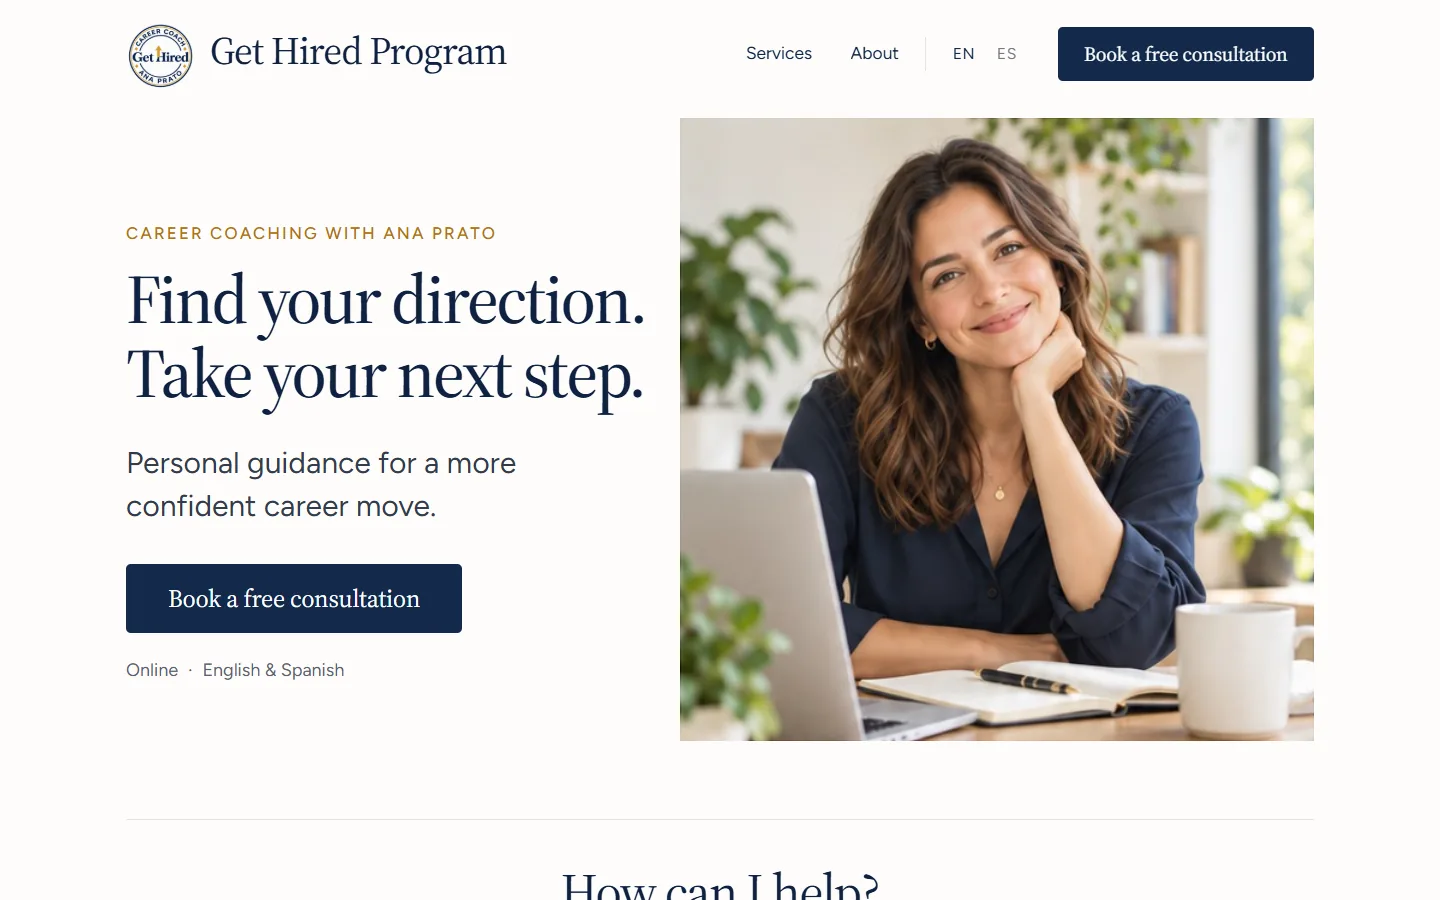
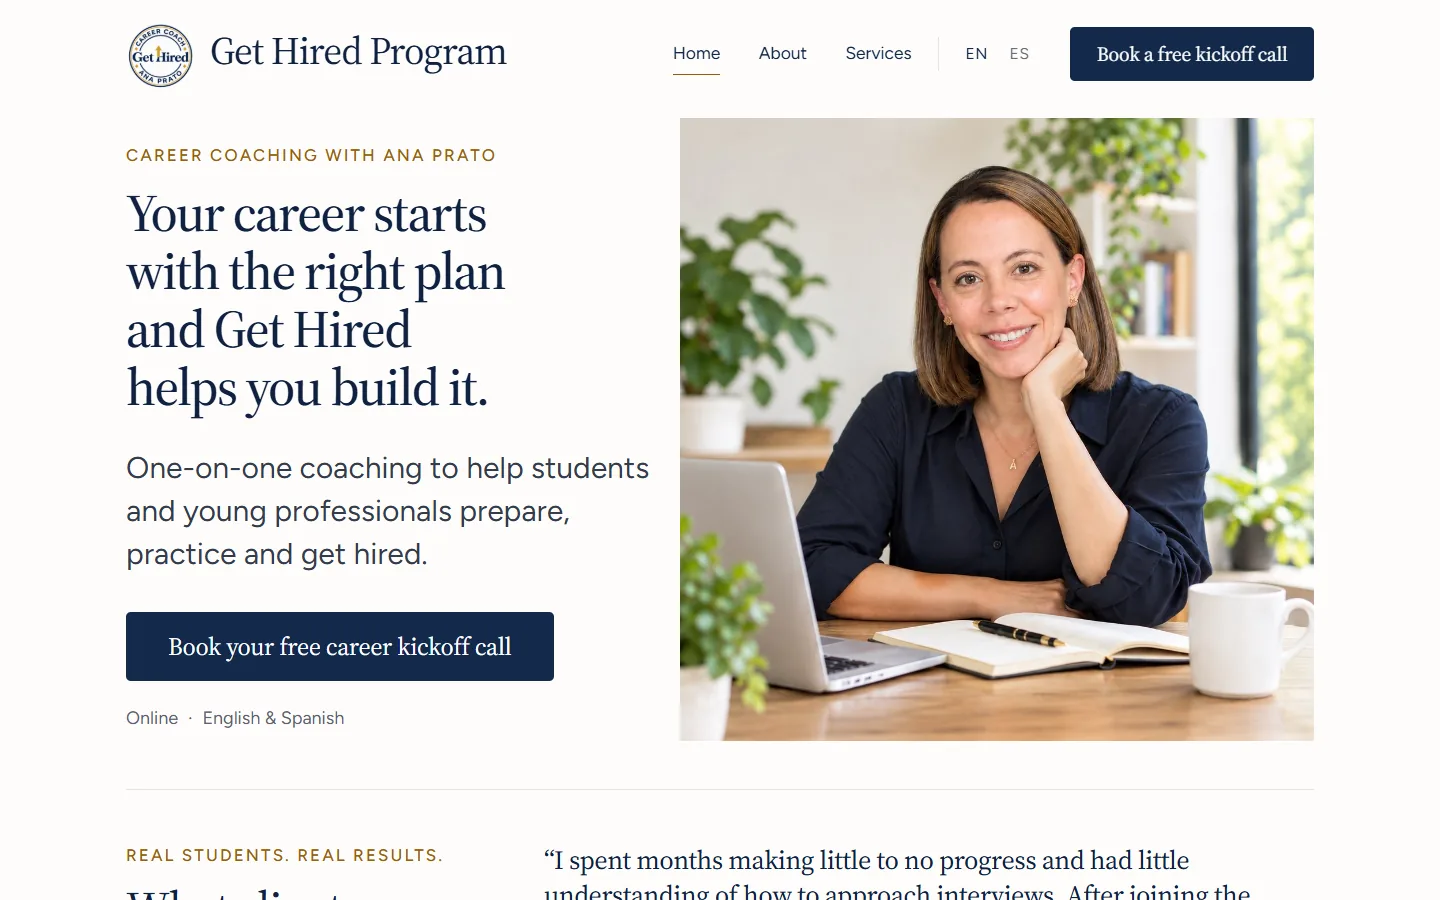
Refresh Get Hired and Right Chews in the portfolio
New screenshots of both live sites, Build section matches Get Hired's
current hero, Right Chews links point to rightchewsfoods.com, case copy
covers checkout and booking.

Claude-Session: https://claude.ai/code/session_019TNtPcbM6dzfqmW4JZ8SM1

diff --git a/index.html b/index.html
@@ -341,15 +341,15 @@
             <div class="mock" aria-hidden="true">
               <div class="m-nav">
                 <div class="b m-logo"><div class="w"><em>LOGO</em></div><div class="r"><span class="seal"></span><span class="ty">Get Hired Program</span><span class="st">Get Hired Program</span></div></div>
-                <div class="b m-links"><div class="w"><em>NAV</em></div><div class="r"><span class="ty">Services &nbsp;About</span><span class="st">Services &nbsp;&nbsp;About</span></div></div>
-                <div class="b m-cta"><div class="w"><em>BTN</em></div><div class="r"><span class="ty">Book a call</span><span class="st">Book a free consultation</span></div></div>
+                <div class="b m-links"><div class="w"><em>NAV</em></div><div class="r"><span class="ty">About &nbsp;Services</span><span class="st">About &nbsp;&nbsp;Services</span></div></div>
+                <div class="b m-cta"><div class="w"><em>BTN</em></div><div class="r"><span class="ty">Book a call</span><span class="st">Book a free kickoff call</span></div></div>
               </div>
               <div class="m-body">
                 <div class="m-copy">
                   <div class="b m-eyebrow"><div class="w"><em>EYEBROW</em></div><div class="r"><span class="ty">Career coaching with Ana Prato</span><span class="st">CAREER COACHING WITH ANA PRATO</span></div></div>
-                  <div class="b m-h1"><div class="w"><em>H1</em></div><div class="r"><span class="ty">Find your direction. Take your next step.</span><span class="st">Find your direction. Take your next step.</span></div></div>
-                  <div class="b m-sub"><div class="w"><em>SUBHEAD</em></div><div class="r"><span class="ty">Personal guidance for a more confident career move.</span><span class="st">Personal guidance for a more confident career move.</span></div></div>
-                  <div class="b m-btn"><div class="w"><em>PRIMARY BUTTON</em></div><div class="r"><span class="ty">Book a free consultation</span><span class="st">Book a free consultation</span></div></div>
+                  <div class="b m-h1"><div class="w"><em>H1</em></div><div class="r"><span class="ty">Your career starts with the right plan.</span><span class="st">Your career starts with the right plan and Get Hired helps you build it.</span></div></div>
+                  <div class="b m-sub"><div class="w"><em>SUBHEAD</em></div><div class="r"><span class="ty">One-on-one coaching to prepare, practice and get hired.</span><span class="st">One-on-one coaching to help students and young professionals prepare, practice and get hired.</span></div></div>
+                  <div class="b m-btn"><div class="w"><em>PRIMARY BUTTON</em></div><div class="r"><span class="ty">Book a free kickoff call</span><span class="st">Book your free career kickoff call</span></div></div>
                   <div class="b m-meta"><div class="w"><em>META</em></div><div class="r"><span class="ty">Online · English &amp; Spanish</span><span class="st">Online · English &amp; Spanish</span></div></div>
                 </div>
                 <div class="b m-photo">
@@ -382,16 +382,16 @@
           <div class="case-copy">
             <h3 class="case-name">Right Chews Foods</h3>
             <p class="case-what">Protein brownies, baked in small batches by a family in Coral Springs, Florida.</p>
-            <p class="case-body">They needed a site that looked as good as the brownies taste. I built the shop, a banner for each flavor, nutrition facts, and contact and wholesale forms that land in their business inbox.</p>
-            <ul class="case-tags"><li>Product shop</li><li>Wholesale form</li><li>Business email</li></ul>
-            <a class="btn btn-ghost" href="https://samirawad24.github.io/rightchewsfoods/" target="_blank" rel="noopener"><span>Visit the site</span><span class="btn-ic"><svg><use href="#i-arrow-up-right"/></svg></span></a>
+            <p class="case-body">They needed a site that looked as good as the brownies taste. I built the shop with real online checkout and Shop Pay, a rotating banner for each flavor, and a wholesale form that lands in their business inbox.</p>
+            <ul class="case-tags"><li>Online checkout</li><li>Product shop</li><li>Wholesale form</li></ul>
+            <a class="btn btn-ghost" href="https://rightchewsfoods.com/" target="_blank" rel="noopener"><span>Visit the site</span><span class="btn-ic"><svg><use href="#i-arrow-up-right"/></svg></span></a>
           </div>
           <div class="case-devices" aria-hidden="true">
             <div class="dev-browser">
-              <div class="dev-chrome"><span class="dots"><i></i><i></i><i></i></span><span class="dev-url">rightchewsfoods</span></div>
-              <div class="dev-screen"><img class="scroller" src="img/work/rightchews-desktop.webp" alt="Right Chews Foods website on desktop: protein brownie shop with a banner for each flavor" width="1100" height="2328" loading="lazy" decoding="async"></div>
+              <div class="dev-chrome"><span class="dots"><i></i><i></i><i></i></span><span class="dev-url">rightchewsfoods.com</span></div>
+              <div class="dev-screen"><img class="scroller" src="img/work/rightchews-desktop.webp" alt="Right Chews Foods website on desktop: protein brownie shop with a banner for each flavor" width="1100" height="1839" loading="lazy" decoding="async"></div>
             </div>
-            <div class="dev-phone"><div class="dev-screen"><img class="scroller" src="img/work/rightchews-mobile.webp" alt="Right Chews Foods website on a phone" width="480" height="5285" loading="lazy" decoding="async"></div></div>
+            <div class="dev-phone"><div class="dev-screen"><img class="scroller" src="img/work/rightchews-mobile.webp" alt="Right Chews Foods website on a phone" width="480" height="4101" loading="lazy" decoding="async"></div></div>
           </div>
         </div></div>
       </article>
@@ -422,16 +422,16 @@
           <div class="case-copy">
             <h3 class="case-name">Get Hired Program</h3>
             <p class="case-what">Career coaching with Ana Prato, in English and Spanish.</p>
-            <p class="case-body">Ana coaches job seekers in two languages, so the site speaks both. Each page has an English and a Spanish version, and gethiredprogram.com is verified with Google Search Console. You watched its homepage get built at the top of this page.</p>
-            <ul class="case-tags"><li>Bilingual site</li><li>Custom domain</li><li>Search Console</li></ul>
+            <p class="case-body">Ana coaches students and young professionals in two languages, so the site speaks both. Each page has an English and a Spanish version, visitors book a free kickoff call without leaving the site, and real client reviews rotate on the homepage. You watched its homepage get built at the top of this page.</p>
+            <ul class="case-tags"><li>Bilingual site</li><li>Online booking</li><li>Client reviews</li></ul>
             <a class="btn btn-ghost" href="https://gethiredprogram.com" target="_blank" rel="noopener"><span>Visit the site</span><span class="btn-ic"><svg><use href="#i-arrow-up-right"/></svg></span></a>
           </div>
           <div class="case-devices" aria-hidden="true">
             <div class="dev-browser">
               <div class="dev-chrome"><span class="dots"><i></i><i></i><i></i></span><span class="dev-url">gethiredprogram.com</span></div>
-              <div class="dev-screen"><img class="scroller" src="img/work/gethired-desktop.webp" alt="Get Hired Program bilingual career coaching website on desktop" width="1100" height="2052" loading="lazy" decoding="async"></div>
+              <div class="dev-screen"><img class="scroller" src="img/work/gethired-desktop.webp" alt="Get Hired Program bilingual career coaching website on desktop" width="1100" height="2325" loading="lazy" decoding="async"></div>
             </div>
-            <div class="dev-phone"><div class="dev-screen"><img class="scroller" src="img/work/gethired-mobile.webp" alt="Get Hired Program website on a phone" width="480" height="4390" loading="lazy" decoding="async"></div></div>
+            <div class="dev-phone"><div class="dev-screen"><img class="scroller" src="img/work/gethired-mobile.webp" alt="Get Hired Program website on a phone" width="480" height="5308" loading="lazy" decoding="async"></div></div>
           </div>
         </div></div>
       </article>

diff --git a/orlando-web-design/index.html b/orlando-web-design/index.html
@@ -189,7 +189,7 @@
       <h2 class="h2 reveal" id="shots-title">Three I built, live now.</h2>
       <div class="svc-shots">
         <a class="shot reveal" href="https://gethiredprogram.com" target="_blank" rel="noopener">
-          <div class="shot-frame"><img src="/img/work/gethired-desktop.webp" alt="Homepage of gethiredprogram.com, a bilingual career coaching website" width="1100" height="2052" loading="lazy" decoding="async"></div>
+          <div class="shot-frame"><img src="/img/work/gethired-desktop.webp" alt="Homepage of gethiredprogram.com, a bilingual career coaching website" width="1100" height="2325" loading="lazy" decoding="async"></div>
           <h3>Get Hired Program</h3>
           <p>Career coaching in English and Spanish, with a version of each page in both.</p>
         </a>
@@ -198,8 +198,8 @@
           <h3>Nicolás Devoto</h3>
           <p>An actor&#x27;s portfolio that plays each self-tape in one tap.</p>
         </a>
-        <a class="shot reveal" href="https://samirawad24.github.io/rightchewsfoods/" target="_blank" rel="noopener">
-          <div class="shot-frame"><img src="/img/work/rightchews-desktop.webp" alt="Homepage of the Right Chews Foods website, a protein brownie shop" width="1100" height="2328" loading="lazy" decoding="async"></div>
+        <a class="shot reveal" href="https://rightchewsfoods.com/" target="_blank" rel="noopener">
+          <div class="shot-frame"><img src="/img/work/rightchews-desktop.webp" alt="Homepage of the Right Chews Foods website, a protein brownie shop" width="1100" height="1839" loading="lazy" decoding="async"></div>
           <h3>Right Chews Foods</h3>
           <p>A protein brownie shop with nutrition facts and a wholesale form.</p>
         </a>

diff --git a/web-design/index.html b/web-design/index.html
@@ -179,7 +179,7 @@
       <h2 class="h2 reveal" id="shots-title">Three I built, live now.</h2>
       <div class="svc-shots">
         <a class="shot reveal" href="https://gethiredprogram.com" target="_blank" rel="noopener">
-          <div class="shot-frame"><img src="/img/work/gethired-desktop.webp" alt="Homepage of gethiredprogram.com, a bilingual career coaching website" width="1100" height="2052" loading="lazy" decoding="async"></div>
+          <div class="shot-frame"><img src="/img/work/gethired-desktop.webp" alt="Homepage of gethiredprogram.com, a bilingual career coaching website" width="1100" height="2325" loading="lazy" decoding="async"></div>
           <h3>Get Hired Program</h3>
           <p>Career coaching in English and Spanish, with a version of each page in both.</p>
         </a>
@@ -188,8 +188,8 @@
           <h3>Nicolás Devoto</h3>
           <p>An actor&#x27;s portfolio that plays each self-tape in one tap.</p>
         </a>
-        <a class="shot reveal" href="https://samirawad24.github.io/rightchewsfoods/" target="_blank" rel="noopener">
-          <div class="shot-frame"><img src="/img/work/rightchews-desktop.webp" alt="Homepage of the Right Chews Foods website, a protein brownie shop" width="1100" height="2328" loading="lazy" decoding="async"></div>
+        <a class="shot reveal" href="https://rightchewsfoods.com/" target="_blank" rel="noopener">
+          <div class="shot-frame"><img src="/img/work/rightchews-desktop.webp" alt="Homepage of the Right Chews Foods website, a protein brownie shop" width="1100" height="1839" loading="lazy" decoding="async"></div>
           <h3>Right Chews Foods</h3>
           <p>A protein brownie shop with nutrition facts and a wholesale form.</p>
         </a>

diff --git a/online-stores/index.html b/online-stores/index.html
@@ -178,8 +178,8 @@
     <div class="wrap">
       <h2 class="h2 reveal" id="shots-title">One I built, live now.</h2>
       <div class="svc-shots one">
-        <a class="shot reveal" href="https://samirawad24.github.io/rightchewsfoods/" target="_blank" rel="noopener">
-          <div class="shot-frame"><img src="/img/work/rightchews-desktop.webp" alt="Homepage of the Right Chews Foods website, a protein brownie shop" width="1100" height="2328" loading="lazy" decoding="async"></div>
+        <a class="shot reveal" href="https://rightchewsfoods.com/" target="_blank" rel="noopener">
+          <div class="shot-frame"><img src="/img/work/rightchews-desktop.webp" alt="Homepage of the Right Chews Foods website, a protein brownie shop" width="1100" height="1839" loading="lazy" decoding="async"></div>
           <h3>Right Chews Foods</h3>
           <p>Protein brownies baked in small batches by a family in Coral Springs, Florida. The site has the shop, a banner for each flavor, nutrition facts, and contact and wholesale forms.</p>
         </a>
